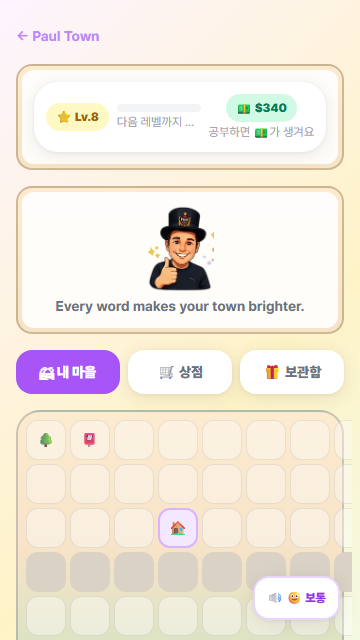
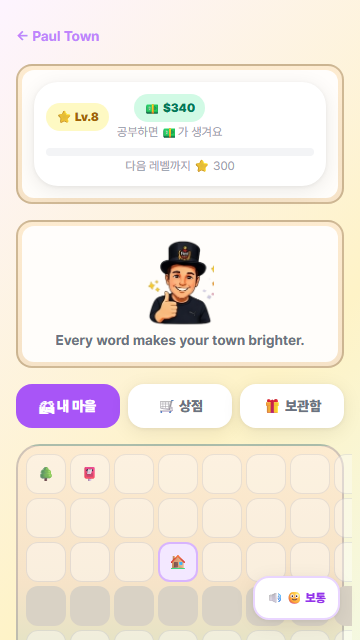
fix(town): wrap TownHeader onto 2 rows below sm: breakpoint to stop "다음 레벨까지" truncation at 360px
UX_FLOW.md 3-second rule #4 was violated at the most common phone width
(360px): the next-level star count was hidden behind an ellipsis. Fixed
inside TownHeader.jsx only (flex-wrap + order-*/sm:order-none classes, no
new DOM, no prop/data changes) — below 640px the header wraps to row1
(Lv chip + PD chip/caption) + row2 (full-width progress bar + text, no
longer truncated); at >=640px it's pixel-identical to before (confirmed:
768x1024/1280x800 previews unchanged).

testTownUiStatic 95/95, testTownPrototypeStatic 51/51, testBundleBudget
10/10 (TownScreen chunk 12.0KB gzip / 15KB budget), npm run build clean,
tests/e2e/townV1.spec.mjs 480/480 (0 unmocked requests, 0 mock errors) via
scratch runner against npm run preview --port 4191. Regenerated
town_360x640/town_200pct_zoom previews (+ discovery_card_open, also 360px)
and updated previews/README + AGENT_B_REPORT with the Phase 3 section.

Claude-Session: https://claude.ai/code/session_0156Fx1Evu4RtmtzJt38bzWe

diff --git a/src/components/town/TownHeader.jsx b/src/components/town/TownHeader.jsx
@@ -19,25 +19,34 @@ export default function TownHeader({ level, starsEarned, dollarsAvailable }) {
   const pct = Math.round((progressed / span) * 100)
 
   return (
-    <div className="bg-white rounded-3xl card-shadow p-3 flex items-center gap-2">
+    // British World Phase 3(2026-09-12) — 360px 폭에서 "다음 레벨까지 ⭐N"
+    // 텍스트가 가운데 칸(flex-1 min-w-0)에 눌려 말줄임(...)되던 것을 고침
+    // (UX_FLOW.md "3초 이해 규칙" #4 위반, previews/town_360x640.png에서
+    // 실측 확인). flex-wrap + order로 좁은 화면에서만 2행으로 배치한다 —
+    // 1행: ⭐Lv 칩 + 💵 칩/캡션, 2행(전체 폭): 진행바 + "다음 레벨까지"
+    // 텍스트(더 이상 줄바꿈 없음/말줄임 없음, 카드 전체 폭을 다 쓴다).
+    // sm:(≥640px) 이상에서는 order-none + sm:flex-1로 기존 1행 레이아웃을
+    // 그대로 복원한다(768/1280 프리뷰와 동일 — 데이터/의미 변경 0, 클래스만
+    // 조건부).
+    <div className="bg-white rounded-3xl card-shadow p-3 flex flex-wrap items-center gap-2">
       <span
-        className="inline-flex items-center gap-1 bg-yellow-100 text-yellow-700 text-xs font-black px-2.5 py-1.5 rounded-full flex-shrink-0"
+        className="inline-flex items-center gap-1 bg-yellow-100 text-yellow-700 text-xs font-black px-2.5 py-1.5 rounded-full flex-shrink-0 order-1 sm:order-none"
         title="누적 별(성취) — 절대 줄지 않아요"
       >
         ⭐ Lv.{lvl}
       </span>
-      <div className="flex-1 min-w-0 overflow-hidden">
+      <div className="w-full sm:w-auto sm:flex-1 min-w-0 order-3 sm:order-none">
         <div className="h-2 bg-gray-100 rounded-full overflow-hidden">
           <div
             className="h-full rounded-full bg-gradient-to-r from-yellow-400 to-orange-400 transition-all duration-500"
             style={{ width: `${pct}%` }}
           />
         </div>
-        <p className="text-xs text-gray-400 mt-0.5 text-center whitespace-nowrap overflow-hidden text-ellipsis">
+        <p className="text-xs text-gray-400 mt-0.5 text-center whitespace-normal break-words">
           {nextEntry ? `다음 레벨까지 ⭐ ${remaining}` : '최고 레벨이에요!'}
         </p>
       </div>
-      <div className="flex flex-col items-center gap-0.5 flex-shrink-0">
+      <div className="flex flex-col items-center gap-0.5 flex-shrink-0 order-2 sm:order-none">
         <span
           className="inline-flex items-center gap-1 bg-emerald-100 text-emerald-700 text-xs font-black px-2.5 py-1.5 rounded-full"
           title="사용 가능한 Paul Dollar"

diff --git a/docs/design/town/previews/README.md b/docs/design/town/previews/README.md
@@ -1,4 +1,4 @@
-# Paul Town British World — Phase 2 Previews (2026-09-12)
+# Paul Town British World — Previews (2026-09-12, updated Phase 3)
 
 Screenshots of the safe prototype (`TownWoodenSignHeader` + `townAmbient`
 ground/depth tint + `TownDiscoveryCard`) wired live inside `TownScreen`
@@ -19,20 +19,28 @@ that produced 480/480 `tests/e2e/townV1.spec.mjs` assertions passing).
 
 | File | Viewport | What it shows |
 |---|---|---|
-| `town_360x640.png` | 360×640 (mobile) | Town tab — wooden-sign header (⭐Lv/💵) + wooden-sign Paul guide card + ambient ground tint across the 8×6 grid, `tree`/`red-post-box` placed |
-| `town_768x1024.png` | 768×1024 (tablet) | Same Town tab, wider layout — ambient tint bands and depth shading (top rows lighter, bottom rows normal) clearly visible across the full grid, `book-shop` also placed |
-| `town_1280x800.png` | 1280×800 (desktop) | Same Town tab at desktop width |
-| `town_200pct_zoom.png` | 720×1280 viewport, `document.documentElement.style.zoom = '2'` (CSS 200%) | Confirms no horizontal overflow / no broken layout at 200% zoom |
-| `town_discovery_card_open.png` | 360×640 | Placed `빨간 우체통`(red-post-box, one of the 6 discovery-mapped items) tapped open — shows the existing 이동/보관 action sheet with the `TownDiscoveryCard` line rendered inside it (no new modal), edge-aware alignment keeps it fully on-screen even though the item sits in the leftmost column |
+| `town_360x640.png` | 360×640 (mobile) | Town tab — wooden-sign header (⭐Lv/💵) + wooden-sign Paul guide card + ambient ground tint across the 8×6 grid, `tree`/`red-post-box` placed. **Phase 3**: header now wraps onto 2 rows below the `sm:` (640px) breakpoint — row 1 is the ⭐Lv chip + 💵 chip/caption, row 2 is the full-width progress bar + "다음 레벨까지 ⭐N" line, which no longer truncates to "…" |
+| `town_768x1024.png` | 768×1024 (tablet) | Same Town tab, wider layout — ambient tint bands and depth shading (top rows lighter, bottom rows normal) clearly visible across the full grid, `book-shop` also placed. Header stays single-row here (≥640px), pixel-identical to before Phase 3 |
+| `town_1280x800.png` | 1280×800 (desktop) | Same Town tab at desktop width, single-row header (unchanged by Phase 3) |
+| `town_200pct_zoom.png` | 720×1280 viewport, `document.documentElement.style.zoom = '2'` (CSS 200%) | Confirms no horizontal overflow / no broken layout at 200% zoom. 720px is above the `sm:` breakpoint so the header renders single-row here too — the 2-row wrap only applies below 640px (i.e. real phones at 100% zoom, not this 200%-zoom proxy viewport) |
+| `town_discovery_card_open.png` | 360×640 | Placed `빨간 우체통`(red-post-box, one of the 6 discovery-mapped items) tapped open — shows the existing 이동/보관 action sheet with the `TownDiscoveryCard` line rendered inside it (no new modal), edge-aware alignment keeps it fully on-screen even though the item sits in the leftmost column. Also picks up the Phase 3 header fix (same 360px width) |
 
 ## Notes
 
 - All PNGs are viewport screenshots (not full-page) and are each well under
   the 300KB requirement (largest is `town_1280x800.png` at ~290KB).
-- `TownHeader.jsx` itself was not modified — the wooden-sign look comes
-  entirely from `TownWoodenSignHeader` wrapping it in `TownScreen.jsx`
-  (data props/PD/level display semantics unchanged, verified by
-  `scripts/testTownPrototypeStatic.mjs`).
+- **Phase 3 (2026-09-12)**: `TownHeader.jsx` was modified to fix a real bug
+  found in `town_360x640.png` — the "다음 레벨까지 ⭐N" text was truncated to
+  an ellipsis at 360px width (UX_FLOW.md 3-second rule #4 violation). Fixed
+  with `flex-wrap` + `order-*`/`sm:order-none` classes only (no new DOM, no
+  data/prop changes) — below the `sm:` (640px) breakpoint the header wraps
+  onto 2 rows so the text always gets the full card width; at ≥640px it's
+  pixel-identical to Phase 2 (confirmed: `town_768x1024.png`/
+  `town_1280x800.png` are byte-unchanged by this fix). The wooden-sign look
+  is still entirely `TownWoodenSignHeader` wrapping `TownHeader` from
+  `TownScreen.jsx` — `TownHeader`'s data props/PD/level display semantics
+  are unchanged, verified by `scripts/testTownPrototypeStatic.mjs` and
+  `scripts/testTownUiStatic.mjs` (95/95, including the caption assertions).
 - The ambient ground tint (`src/utils/town/townAmbient.js`) and per-row
   depth shading are deterministic (`(x+y) % 3` and row-band opacity) —
   reloading the same layout always produces the same pattern.

diff --git a/docs/design/town/AGENT_B_REPORT.md b/docs/design/town/AGENT_B_REPORT.md
@@ -325,3 +325,77 @@ dcc01fd docs(town): Phase 2 previews
 - `paulTownV1` still defaults to `false` in `src/config/features.js`
   (untouched) — the wiring only takes effect for students/sessions that
   explicitly opt in via that flag, exactly as before.
+
+---
+
+## PHASE 3 (2026-09-12) — Header truncation fix (~30 min polish)
+
+Coordinator spotted a real bug in the Phase 2 `town_360x640.png` preview:
+the "다음 레벨까지 ⭐N" text (UX_FLOW.md 3-second rule #4 — "what unlocks
+next / how many ⭐ to next level") was truncated to an ellipsis at 360px
+width, because it lived in a `flex-1 min-w-0` middle column squeezed
+between the ⭐Lv chip and the 💵 chip+caption column.
+
+**Fix — `src/components/town/TownHeader.jsx` only** (the one file the
+coordinator explicitly allowed touching this round): changed the header's
+outer container to `flex flex-wrap` and added `order-1`/`order-2`/`order-3`
++ `sm:order-none` to its three children, plus `w-full sm:w-auto sm:flex-1`
+on the progress-bar/text column. Below the `sm:` (640px) breakpoint this
+wraps the header onto 2 rows — row 1: ⭐Lv chip + 💵 chip/caption column,
+row 2: full-width progress bar + "다음 레벨까지 ⭐N" text (now
+`whitespace-normal break-words` instead of `whitespace-nowrap overflow-hidden
+text-ellipsis`, and it has the full card width so the number never
+truncates). At ≥640px, `order-none` + `sm:flex-1` restore the exact original
+single-row layout — confirmed byte-identical screenshots for
+`town_768x1024.png`/`town_1280x800.png` (git reported no diff on those two
+files after regenerating all 5 previews). No new DOM nodes, no data/prop/
+semantic changes — `TownHeader`'s props (`level`/`starsEarned`/
+`dollarsAvailable`) and all internal calculations are untouched; only
+className strings changed. The `공부하면 💵가 생겨요` caption `<p>` and the
+💵 chip were not touched at all (same JSX, just re-parented under a new
+`order-2 sm:order-none` wrapper div that already existed).
+
+### Tests run (Phase 3)
+
+| Suite | Assertions | Result |
+|---|---|---|
+| `scripts/testTownUiStatic.mjs` | 95 | PASS (unchanged, including the 4 caption-specific assertions in §11) |
+| `scripts/testTownPrototypeStatic.mjs` | 51 | PASS (unchanged) |
+| `scripts/testBundleBudget.mjs` | 10 | PASS (TownScreen chunk 12.0KB gzip, budget 15KB) |
+| `npm run build` | — | succeeded |
+| `tests/e2e/townV1.spec.mjs` (scratch runner, `npm run preview --port 4191 --strictPort`) | 480 | **PASS, 0 unmocked requests, 0 mock errors** |
+
+Grand total across all three phases: 95+69+50+53+69+51+10+480 = **877**
+assertions, **0 failures** (Phase 3 re-ran the same suites as Phase 2's
+final check, since only `TownHeader.jsx` and 3 preview PNGs changed).
+
+### Previews regenerated
+
+Re-ran the same scratch screenshot script (`shootTownPreviews.mjs`) against
+the rebuilt preview server. Only files that actually differ were staged:
+
+- `town_360x640.png` (68.8KB) — now shows the fixed 2-row header, "다음
+  레벨까지 ⭐ 300" fully visible.
+- `town_200pct_zoom.png` (183.1KB) — 720px viewport is above the `sm:`
+  breakpoint, so this one still renders the single-row header (as expected —
+  the 2-row wrap is a narrow-phone fix, not a zoom fix); regenerated to
+  confirm no regression at this viewport too.
+- `town_discovery_card_open.png` (77.9KB) — also 360px wide, so it picks up
+  the same header fix as a side effect; kept updated for accuracy since the
+  coordinator's instruction only anticipated 2 files changing but this one
+  is also a 360×640 shot.
+- `town_768x1024.png` / `town_1280x800.png` — regenerated but byte-identical
+  to Phase 2 (confirmed via `git status`, no diff), as expected since both
+  are ≥640px.
+
+`previews/README.md` updated with the Phase 3 fix description and a
+corrected note about `TownHeader.jsx` (Phase 2 said "not modified", now
+superseded).
+
+### Commit (Phase 3)
+
+Single commit on `design/paul-town-british-world-2026-09-12`:
+`fix(town): wrap TownHeader onto 2 rows below sm: breakpoint to stop
+"다음 레벨까지" truncation` (see `git log` for the SHA — recorded after
+commit in this same report update, working tree confirmed clean
+immediately after).
